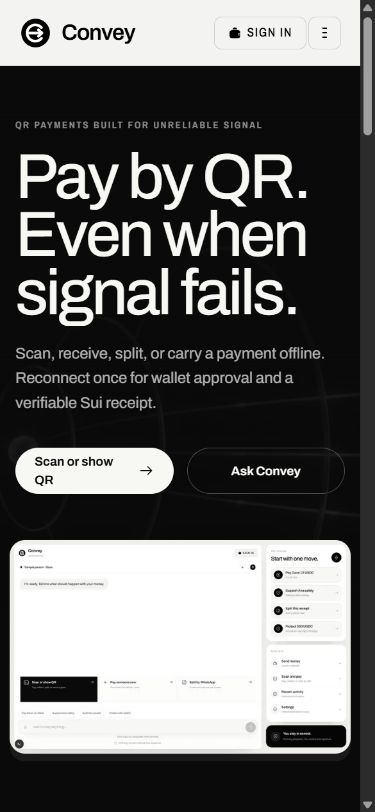
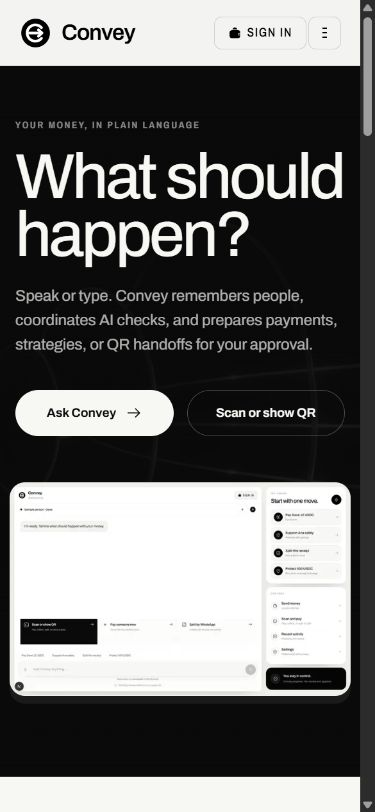
fix: balance companion agents and QR story

diff --git a/components/landing/convey-landing.tsx b/components/landing/convey-landing.tsx
@@ -3,20 +3,20 @@
 import Image from "next/image";
 import Link from "next/link";
 import { motion, useReducedMotion } from "motion/react";
-import { ArrowRight, Code1, DocumentText, Flash, ShieldTick } from "@/components/icons";
+import { ArrowRight, DocumentText, Flash, People, ShieldTick } from "@/components/icons";
 import { BrandMark } from "@/components/site-header";
 import productDesktop from "@/docs/screenshots/convey-app-desktop.png";
 
 const MOMENTS = [
-  ["01", "Scan or show", "Pay a merchant, collect from a friend, split a bill, or issue a limited pass from one QR workspace."],
-  ["02", "Carry exact details", "The amount, person, purpose, and expiry travel inside the code when signal disappears."],
-  ["03", "Reconnect and approve", "Your wallet remains the final authority. Every settled outcome produces a receipt you can check."],
+  ["01", "Say it naturally", "Speak or type what should happen. Convey remembers people, understands receipts, and keeps the request in context."],
+  ["02", "Let agents prepare", "AI agents map the request, compare risk, and stop for clarification whenever important details conflict."],
+  ["03", "Review and move", "Approve the exact action in your wallet, use QR when it helps, and keep a receipt you can check independently."],
 ] as const;
 
 const REQUESTS = [
-  { icon: Code1, text: "Pay River Cafe offline", meta: "Scan now, approve when connected" },
-  { icon: DocumentText, text: "Split dinner with Maya, Idris, and Sam", meta: "Personal WhatsApp links ready" },
-  { icon: ShieldTick, text: "Give Maya a grocery allowance", meta: "Purpose and expiry included" },
+  { icon: People, text: "Send Dave 12 USDC for dinner", meta: "Known person, exact intent" },
+  { icon: DocumentText, text: "Split this receipt with Maya and Sam", meta: "Personal requests and QR links" },
+  { icon: ShieldTick, text: "Protect 500 USDC overnight", meta: "Bounded strategy, approval required" },
 ] as const;
 
 export function ConveyLanding() {
@@ -50,16 +50,16 @@ export function ConveyLanding() {
             transition={{ duration: reduceMotion ? 0 : 0.72, ease: [0.22, 1, 0.36, 1] }}
             className="landing-hero-copy"
           >
-            <p className="companion-eyebrow text-white/52">QR payments built for unreliable signal</p>
-            <h1>Pay by QR. Even when signal fails.</h1>
+            <p className="companion-eyebrow text-white/52">Your money, in plain language</p>
+            <h1>What should happen?</h1>
             <p className="landing-hero-lede">
-              Scan, receive, split, or carry a payment offline. Reconnect once for wallet approval and a verifiable Sui receipt.
+              Speak or type. Convey remembers people, coordinates AI checks, and prepares payments, strategies, or QR handoffs for your approval.
             </p>
             <div className="landing-hero-actions">
-              <Link href="/qr-ferry" className="landing-primary-cta">
-                Scan or show QR <ArrowRight size={17} />
+              <Link href="/app" className="landing-primary-cta">
+                Ask Convey <ArrowRight size={17} />
               </Link>
-              <Link href="/app" className="landing-secondary-cta">Ask Convey</Link>
+              <Link href="/qr-ferry" className="landing-secondary-cta">Scan or show QR</Link>
             </div>
           </motion.div>
 
@@ -81,8 +81,8 @@ export function ConveyLanding() {
 
       <section id="how-it-works" className="landing-story">
         <motion.div {...reveal} className="landing-story-intro">
-          <h2>One QR can do more than checkout.</h2>
-          <p>Use it to pay, collect, split, set a purpose limit, or carry a request between devices.</p>
+          <h2>One conversation. Every money move.</h2>
+          <p>Convey turns natural language into a checked action, then waits for you to approve it.</p>
         </motion.div>
         <div className="landing-moment-grid">
           {MOMENTS.map(([number, title, body], index) => (
@@ -95,8 +95,8 @@ export function ConveyLanding() {
 
       <section className="landing-handoff" aria-labelledby="landing-handoff-title">
         <motion.div {...reveal} className="landing-handoff-copy">
-          <p className="companion-eyebrow text-black/45">Offline QR, built into every money task</p>
-          <h2 id="landing-handoff-title">The code carries the agreement.</h2>
+          <p className="companion-eyebrow text-black/45">When a code is the easiest way</p>
+          <h2 id="landing-handoff-title">Carry the request by QR.</h2>
           <p>
             Amount, recipient, purpose, and expiry stay together. Send a personal split link on WhatsApp, show a merchant code, or pass a request to another device.
           </p>
@@ -127,9 +127,9 @@ export function ConveyLanding() {
 
       <section className="landing-stage">
         <motion.div {...reveal} className="landing-stage-copy">
-          <h2>Scan first. Ask when you need more.</h2>
-          <p>QR handles the handoff. Convey&apos;s companion remembers people, turns receipt photos into requests, and prepares bounded actions for review.</p>
-          <Link href="/qr-ferry" className="landing-stage-link">Create a payment code <ArrowRight size={17} /></Link>
+          <h2>Your companion, backed by careful agents.</h2>
+          <p>Ask naturally. Convey remembers who people are, understands receipt splits, checks risk, and prepares bounded actions without taking wallet control.</p>
+          <Link href="/app" className="landing-stage-link">Start a conversation <ArrowRight size={17} /></Link>
         </motion.div>
         <motion.div {...reveal} className="landing-request-stack">
           {REQUESTS.map(({ icon: Icon, text, meta }, index) => (
@@ -160,9 +160,9 @@ export function ConveyLanding() {
 
       <section className="landing-final-cta">
         <BrandMark size={34} />
-        <h2>What should this QR do?</h2>
-        <p>Pay, collect, split, or set a limit.</p>
-        <Link href="/qr-ferry" className="landing-primary-cta">Open QR payments <ArrowRight size={17} /></Link>
+        <h2>Tell Convey what should happen.</h2>
+        <p>Speak, type, scan, or share a receipt.</p>
+        <Link href="/app" className="landing-primary-cta">Ask Convey <ArrowRight size={17} /></Link>
       </section>
     </div>
   );
